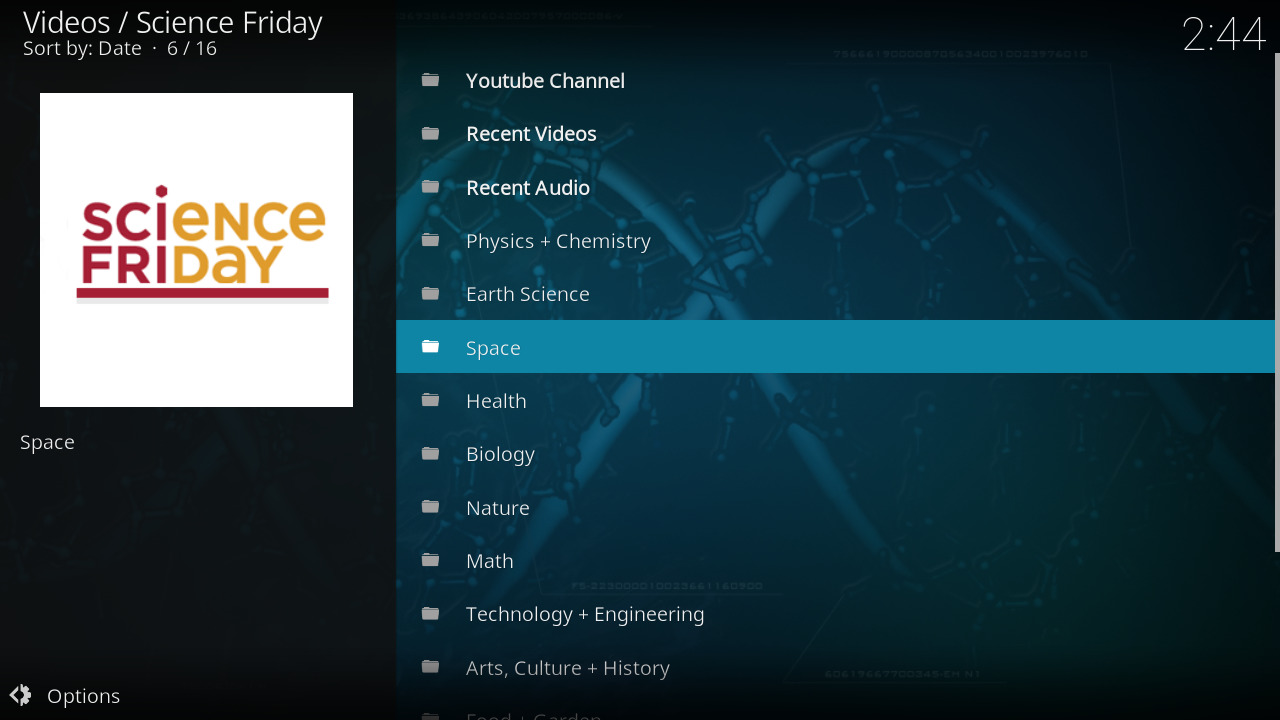
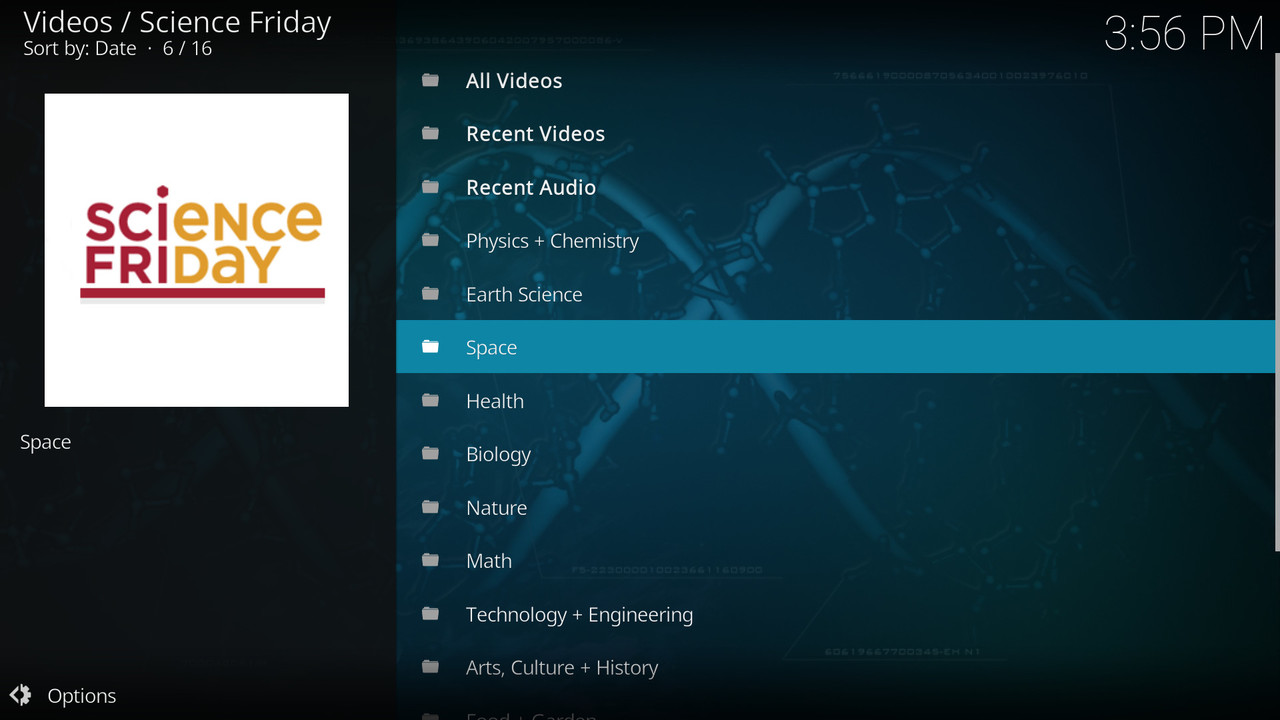
[plugin.video.science.friday] 3.0.2

diff --git a/plugin.video.science.friday/addon.py b/plugin.video.science.friday/addon.py
@@ -1,5 +1,5 @@
 # -*- coding: utf-8 -*-
-# Copyright: (c) 2016 William Forde (willforde+kodi@gmail.com)
+# Copyright: (c) 2016 - 2018 William Forde (willforde+kodi@gmail.com)
 #
 # License: GPLv2, see LICENSE for more details
 #
@@ -17,137 +17,6 @@
 # along with this program; if not, write to the Free Software
 # Foundation, Inc., 51 Franklin Street, Fifth Floor, Boston, MA  02110-1301, USA.
 
-from __future__ import unicode_literals
-from codequick import Route, Resolver, Listitem, run
-import urlquick
-
-# Localized string Constants
-RECENT_VIDEOS = 30001
-RECENT_AUDIO = 30002
-LIST_AUDIO = 30003
-LIST_VIDEO = 30004
-
-
-@Route.register
-def root(plugin):
-    """:type plugin: Route"""
-    # Set context parameters based on default view setting
-    if plugin.setting.get_int("defaultview") == 0:
-        context_label = plugin.localize(LIST_AUDIO)
-        context_type = "segment"
-        item_type = "video"
-    else:
-        context_label = plugin.localize(LIST_VIDEO)
-        context_type = "video"
-        item_type = "segment"
-
-    # Fetch HTML Source
-    url = "https://www.sciencefriday.com/explore/"
-    html = urlquick.get(url)
-
-    # Parse for the content
-    root_elem = html.parse("form", attrs={"class": "searchandfilter"})
-    sfid = root_elem.get("data-sf-form-id")
-
-    # Add Youtube & Recent Content
-    yield Listitem.youtube("UCDjGU4DP3b-eGxrsipCvoVQ")
-
-    # Add Recent Videos link
-    yield Listitem.from_dict(content_lister, plugin.localize(RECENT_VIDEOS),
-                             params={"sfid": sfid, "ctype": "video"})
-    # Add Recent Audio link
-    yield Listitem.from_dict(content_lister, plugin.localize(RECENT_AUDIO),
-                             params={"sfid": sfid, "ctype": "segment"})
-
-    # List all topics
-    for elem in root_elem.iterfind(".//option[@data-sf-cr]"):
-        item = Listitem()
-        item.label = elem.text
-
-        # Add context item to link to the opposite content type. e.g. audio if video is default
-        item.context.container(content_lister, context_label, topic=elem.attrib["value"], sfid=sfid, ctype=context_type)
-        item.set_callback(content_lister, topic=elem.attrib["value"], ctype=item_type, sfid=sfid)
-        yield item
-
-
-@Route.register
-def content_lister(plugin, sfid, ctype, topic=None, page_count=1):
-    """
-    :type plugin: Route
-    :type sfid: unicode
-    :type ctype: unicode
-    :type topic: unicode
-    :type page_count: int
-    """
-    # Add link to Alternitve Listing
-    if page_count == 1 and topic:
-        params = {"_updatelisting_": True, "sfid": sfid, "topic": topic,
-                  "ctype": u"segment" if ctype == u"video" else u"video"}
-        label = plugin.localize(LIST_AUDIO) if ctype == u"video" else plugin.localize(LIST_VIDEO)
-        item_dict = {"label": label, "callback": content_lister, "params": params}
-        yield Listitem.from_dict(**item_dict)
-
-    # Create content url
-    if topic:
-        url = "https://www.sciencefriday.com/wp-admin/admin-ajax.php?action=get_results&paged=%(next)s&" \
-              "sfid=%(sfid)s&post_types=%(ctype)s&_sft_topic=%(topic)s" % \
-              {"sfid": sfid, "ctype": ctype, "topic": topic, "next": page_count}
-    else:
-        url = "https://www.sciencefriday.com/wp-admin/admin-ajax.php?action=get_results&paged=%(next)s&" \
-              "sfid=%(sfid)s&post_types=%(ctype)s" % \
-              {"sfid": sfid, "ctype": ctype, "next": page_count}
-
-    # Fetch & parse HTML Source
-    ishd = bool(plugin.setting.get_int("video_quality", addon_id="script.module.youtube.dl"))
-    root_elem = urlquick.get(url).parse()
-
-    # Fetch next page
-    next_url = root_elem.find(".//a[@rel='next']")
-    if next_url is not None:  # pragma: no branch
-        yield Listitem.next_page(sfid=sfid, ctype=ctype, page_count=page_count+1)
-
-    # Parse the elements
-    for element in root_elem.iterfind(".//article"):
-        tag_a = element.find(".//a[@rel='bookmark']")
-        item = Listitem()
-        item.label = tag_a.text
-        item.stream.hd(ishd)
-
-        # Fetch plot & duration
-        tag_p = element.findall(".//p")
-        if tag_p and tag_p[0].get("class") == "run-time":
-            item.info["duration"] = tag_p[0].text
-            item.info["plot"] = tag_p[1].text
-        elif tag_p:  # pragma: no branch
-            item.info["plot"] = tag_p[0].text
-
-        # Fetch image if exists
-        img = element.find(".//img[@data-src]")
-        if img is not None:
-            item.art["thumb"] = img.get("data-src")
-
-        # Fetch audio/video url
-        tag_audio = element.find(".//a[@data-audio]")
-        if tag_audio is not None:
-            audio_url = tag_audio.get("data-audio")
-            item.set_callback(audio_url)
-        else:
-            item.set_callback(play_video, url=tag_a.get("href"))
-
-        yield item
-
-
-@Resolver.register
-def play_video(plugin, url):
-    """
-    Site: https://www.sciencefriday.com/videos/reverse-engineering-europa/?post_types=video&_sft_topic=space
-
-    :type plugin: Resolver
-    :type url: unicode
-    """
-    return plugin.extract_source(url)
-
-
-# Initiate add-on
+from resources.lib import main
 if __name__ == "__main__":
-    run()
+    main.run()

diff --git a/plugin.video.science.friday/resources/lib/main.py b/plugin.video.science.friday/resources/lib/main.py
@@ -1,0 +1,133 @@
+# -*- coding: utf-8 -*-
+from __future__ import unicode_literals
+
+# noinspection PyUnresolvedReferences
+from codequick import Route, Resolver, Listitem, run
+from codequick.utils import bold
+import urlquick
+
+# Localized string Constants
+RECENT_VIDEOS = 30001
+RECENT_AUDIO = 30002
+LIST_AUDIO = 30003
+LIST_VIDEO = 30004
+
+
+@Route.register
+def root(plugin):
+    """:type plugin: Route"""
+    # Set context parameters based on default view setting
+    if plugin.setting.get_int("defaultview") == 0:
+        context_label = plugin.localize(LIST_AUDIO)
+        context_type = "segment"
+        item_type = "video"
+    else:
+        context_label = plugin.localize(LIST_VIDEO)
+        context_type = "video"
+        item_type = "segment"
+
+    # Fetch HTML Source
+    url = "https://www.sciencefriday.com/explore/"
+    html = urlquick.get(url)
+
+    # Parse for the content
+    root_elem = html.parse("form", attrs={"class": "searchandfilter"})
+    sfid = root_elem.get("data-sf-form-id")
+
+    # Add Youtube & Recent Content
+    yield Listitem.youtube("UCDjGU4DP3b-eGxrsipCvoVQ")
+
+    # Add Recent Videos link
+    yield Listitem.from_dict(content_lister, bold(plugin.localize(RECENT_VIDEOS)),
+                             params={"sfid": sfid, "ctype": "video"})
+    # Add Recent Audio link
+    yield Listitem.from_dict(content_lister, bold(plugin.localize(RECENT_AUDIO)),
+                             params={"sfid": sfid, "ctype": "segment"})
+
+    # List all topics
+    for elem in root_elem.iterfind(".//option[@data-sf-cr]"):
+        item = Listitem()
+        item.label = elem.text
+
+        # Add context item to link to the opposite content type. e.g. audio if video is default
+        item.context.container(content_lister, context_label, topic=elem.attrib["value"], sfid=sfid, ctype=context_type)
+        item.set_callback(content_lister, topic=elem.attrib["value"], ctype=item_type, sfid=sfid)
+        yield item
+
+
+@Route.register
+def content_lister(plugin, sfid, ctype, topic=None, page_count=1):
+    """
+    :type plugin: Route
+    :type sfid: unicode
+    :type ctype: unicode
+    :type topic: unicode
+    :type page_count: int
+    """
+    # Add link to Alternitve Listing
+    if page_count == 1 and topic:
+        params = {"_updatelisting_": True, "sfid": sfid, "topic": topic,
+                  "ctype": u"segment" if ctype == u"video" else u"video"}
+        label = bold(plugin.localize(LIST_AUDIO) if ctype == u"video" else plugin.localize(LIST_VIDEO))
+        item_dict = {"label": label, "callback": content_lister, "params": params}
+        yield Listitem.from_dict(**item_dict)
+
+    # Create content url
+    if topic:
+        url = "https://www.sciencefriday.com/wp-admin/admin-ajax.php?action=get_results&paged=%(next)s&" \
+              "sfid=%(sfid)s&post_types=%(ctype)s&_sft_topic=%(topic)s" % \
+              {"sfid": sfid, "ctype": ctype, "topic": topic, "next": page_count}
+    else:
+        url = "https://www.sciencefriday.com/wp-admin/admin-ajax.php?action=get_results&paged=%(next)s&" \
+              "sfid=%(sfid)s&post_types=%(ctype)s" % \
+              {"sfid": sfid, "ctype": ctype, "next": page_count}
+
+    # Fetch & parse HTML Source
+    ishd = bool(plugin.setting.get_int("video_quality", addon_id="script.module.youtube.dl"))
+    root_elem = urlquick.get(url).parse()
+
+    # Fetch next page
+    next_url = root_elem.find(".//a[@rel='next']")
+    if next_url is not None:  # pragma: no branch
+        yield Listitem.next_page(sfid=sfid, ctype=ctype, page_count=page_count+1)
+
+    # Parse the elements
+    for element in root_elem.iterfind(".//article"):
+        tag_a = element.find(".//a[@rel='bookmark']")
+        item = Listitem()
+        item.label = tag_a.text
+        item.stream.hd(ishd)
+
+        # Fetch plot & duration
+        tag_p = element.findall(".//p")
+        if tag_p and tag_p[0].get("class") == "run-time":
+            item.info["duration"] = tag_p[0].text
+            item.info["plot"] = tag_p[1].text
+        elif tag_p:  # pragma: no branch
+            item.info["plot"] = tag_p[0].text
+
+        # Fetch image if exists
+        img = element.find(".//img[@data-src]")
+        if img is not None:
+            item.art["thumb"] = img.get("data-src")
+
+        # Fetch audio/video url
+        tag_audio = element.find(".//a[@data-audio]")
+        if tag_audio is not None:
+            audio_url = tag_audio.get("data-audio")
+            item.set_callback(audio_url)
+        else:
+            item.set_callback(play_video, url=tag_a.get("href"))
+
+        yield item
+
+
+@Resolver.register
+def play_video(plugin, url):
+    """
+    Site: https://www.sciencefriday.com/videos/reverse-engineering-europa/?post_types=video&_sft_topic=space
+
+    :type plugin: Resolver
+    :type url: unicode
+    """
+    return plugin.extract_source(url)
